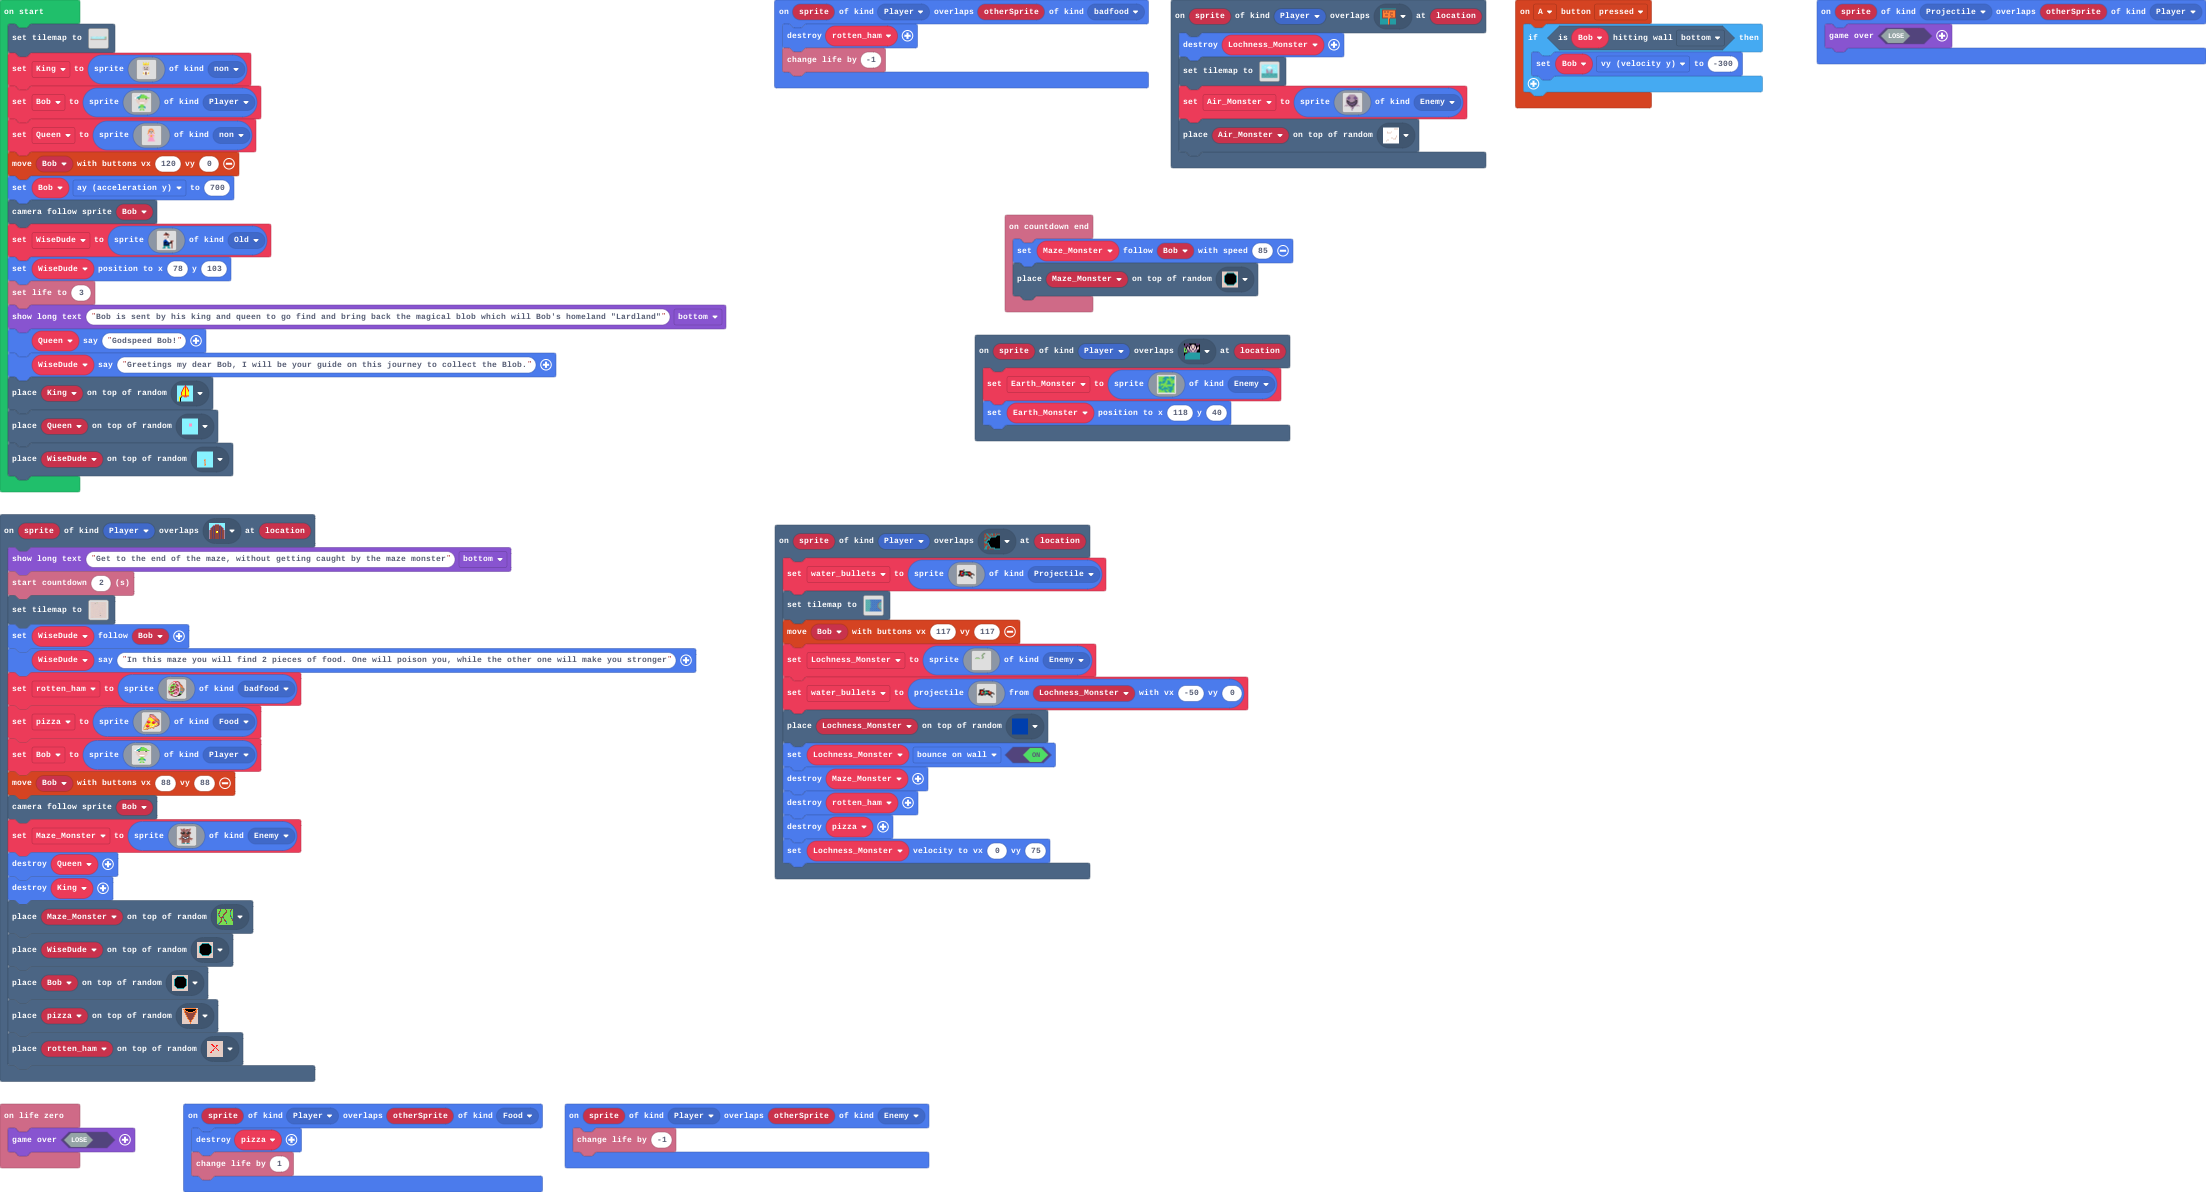
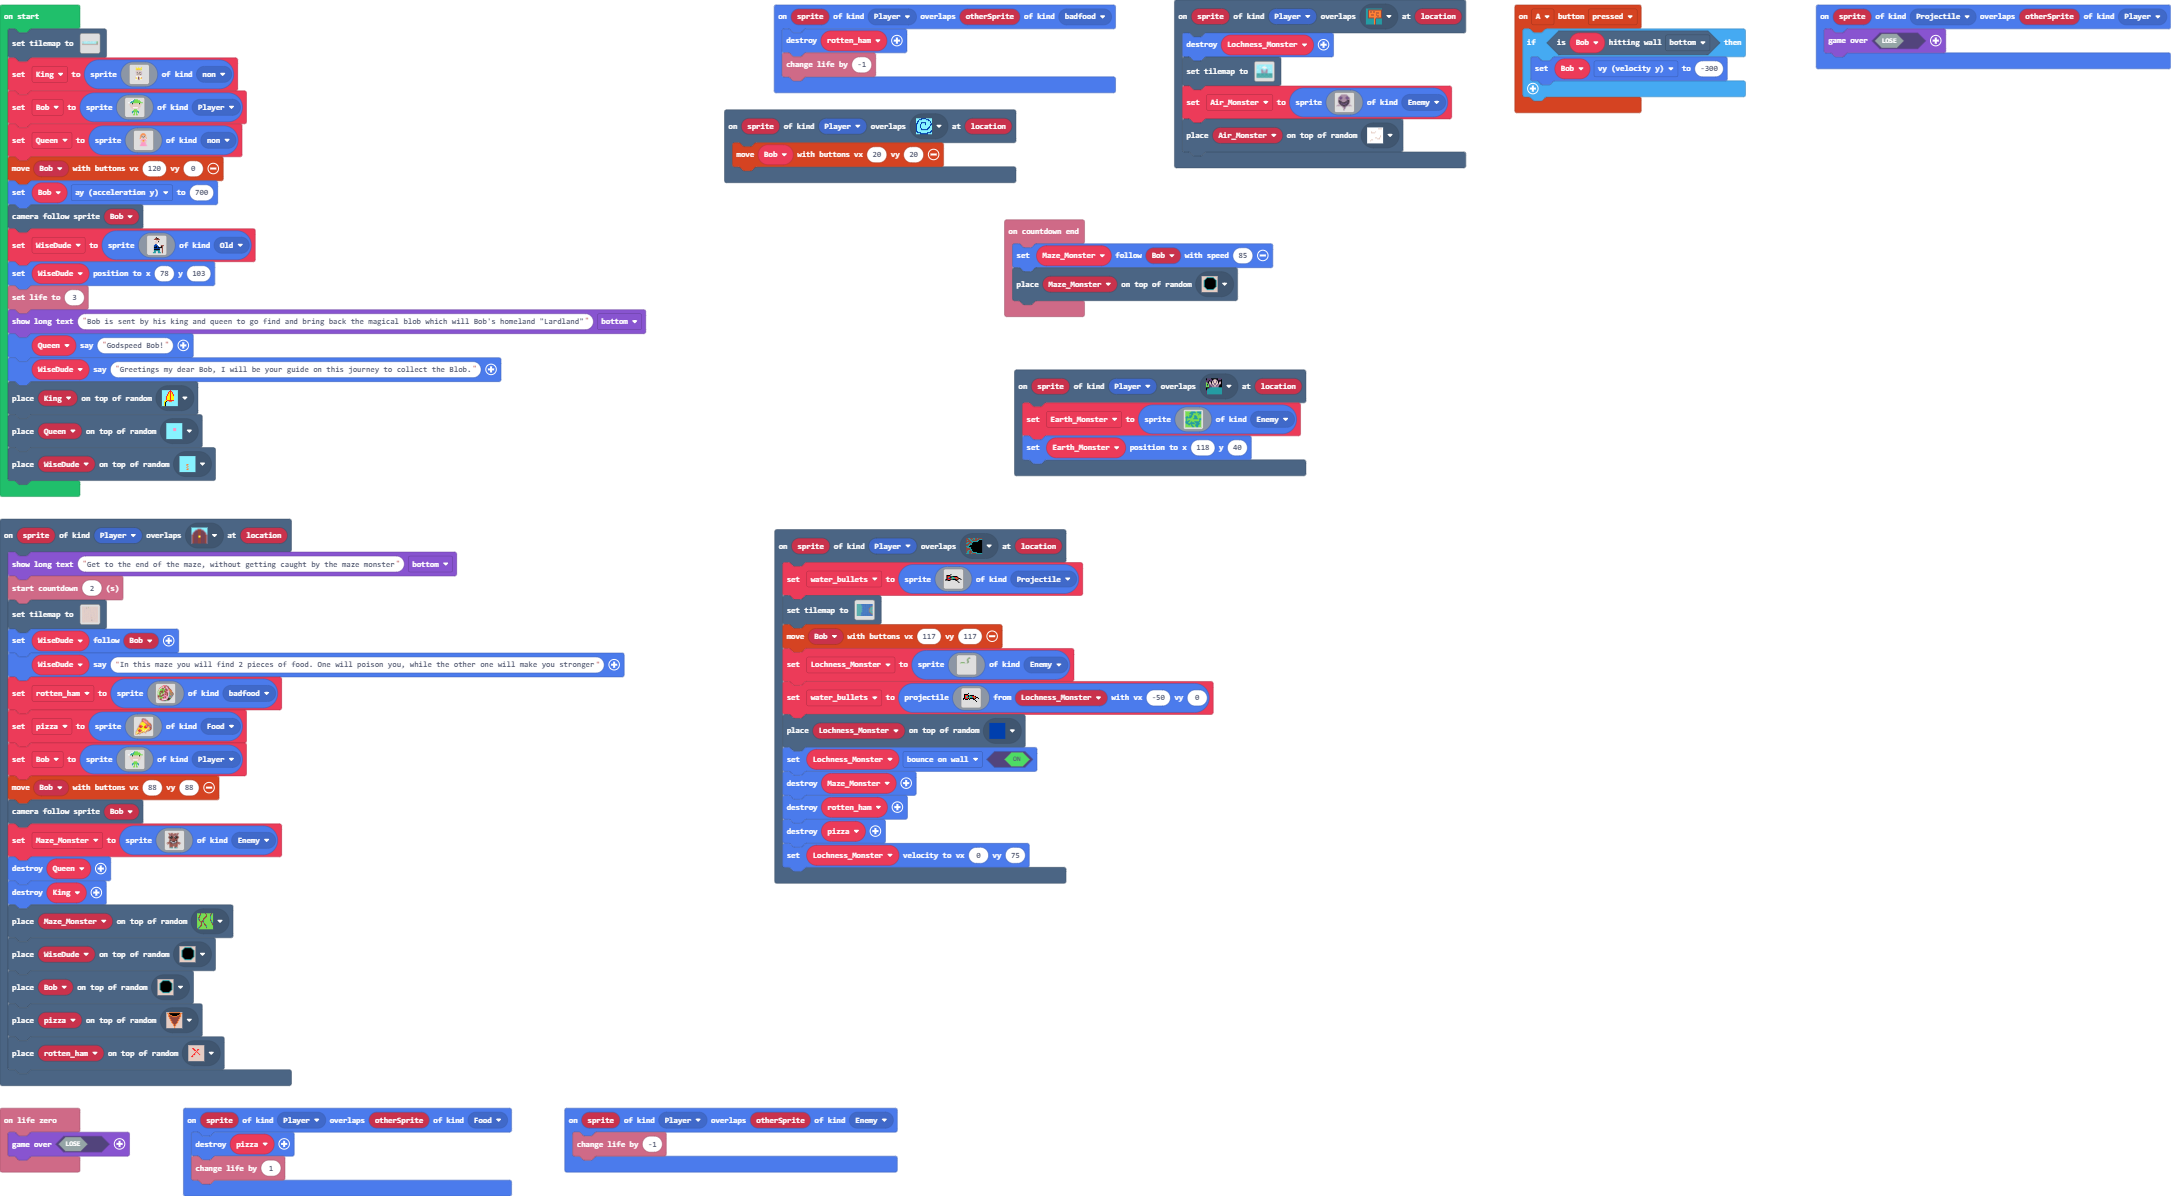
Update main.blocks, main.ts, tilemap.g.jres, tilemap.g.ts

diff --git a/main.ts b/main.ts
@@ -277,38 +277,38 @@ scene.onOverlapTile(SpriteKind.Player, myTiles.tile17, function (sprite, locatio
         . . . . . . . . . . . . . . . . 
         . . . . . . . . . . . . . . . . 
         `, SpriteKind.Projectile)
[2 lines of base64/hex data omitted]
+        ..........2.............................
+        ..........222...........................
+        .............2..........................
+        ............2...........................
+        ............2...........................
+        .............2..........................
+        .............2..........................
+        .............2..........................
+        .............2..........................
+        .............2..........................
+        .............2..........................
+        .............2..............2...........
+        .............2...2......................
+        .............2...........2..............
         ........................................
-        ........................................
-        ........................................
-        ........................................
-        ........................................
-        ........................................
-        ........................................
-        ........................................
-        ........................................
-        ........................................
-        ........................................
-        ........................................
-        ........................................
-        ........................................
-        ........................................
-        ........................................
-        ........................................
-        ........................................
-        ........................................
-        ........................................
-        ........................................
-        ........................................
-        ........................................
-        ........................................
-        ........................................
-        ........................................
-        ........................................
-        ........................................
-        ........................................
-        ........................................
-        `, [myTiles.transparency16,sprites.castle.tileDarkGrass3,myTiles.tile22,myTiles.tile23,myTiles.tile32,myTiles.tile33,myTiles.tile34,sprites.castle.tileDarkGrass1,myTiles.tile35,myTiles.tile36,myTiles.tile37,myTiles.tile38,myTiles.tile39,myTiles.tile40,myTiles.tile41,myTiles.tile42,myTiles.tile46], TileScale.Sixteen))
+        .............2........2......2..........
+        .............2..........................
+        .............2..........................
+        ..............2............2............
+        .............2..........................
+        ............2...........................
+        ............2...........................
+        ...........2............................
+        ...........2............................
+        ...........2............................
+        ...........2............................
+        ...........2............................
+        ............2...........................
+        ..........22............................
+        .........2..............................
+        `, [myTiles.transparency16,sprites.castle.tileDarkGrass3,myTiles.tile22,myTiles.tile23,myTiles.tile32,myTiles.tile33,myTiles.tile34,sprites.castle.tileDarkGrass1,myTiles.tile35,myTiles.tile36,myTiles.tile37,myTiles.tile38,myTiles.tile39,myTiles.tile40,myTiles.tile41,myTiles.tile42,myTiles.tile46,myTiles.tile64], TileScale.Sixteen))
     controller.moveSprite(Bob, 117, 117)
     Lochness_Monster = sprites.create(img`
         ........................................
@@ -393,6 +393,9 @@ info.onLifeZero(function () {
 sprites.onOverlap(SpriteKind.Player, SpriteKind.Food, function (sprite, otherSprite) {
     pizza.destroy()
     info.changeLifeBy(1)
+})
+scene.onOverlapTile(SpriteKind.Player, myTiles.tile64, function (sprite, location) {
+    controller.moveSprite(Bob, 20, 20)
 })
 sprites.onOverlap(SpriteKind.Player, SpriteKind.Enemy, function (sprite, otherSprite) {
     info.changeLifeBy(-1)

diff --git a/tilemap.g.ts b/tilemap.g.ts
@@ -128,6 +128,8 @@ namespace myTiles {
     export const tile62 = image.ofBuffer(hex``);
     //% fixedInstance jres blockIdentity=images._tile
     export const tile63 = image.ofBuffer(hex``);
+    //% fixedInstance jres blockIdentity=images._tile
+    export const tile64 = image.ofBuffer(hex``);
 
     helpers.registerTilemapFactory(function(name: string) {
         switch(helpers.stringTrim(name)) {
